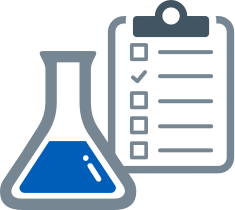
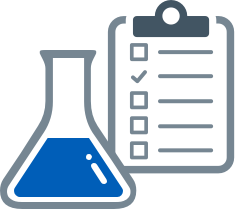
Added SVG format for overview page images

Changed region(s): [[0.0, 0.2286, 0.5957, 1.0], [0.1489, 0.2571, 0.1787, 0.2857]]

diff --git a/views/H/01-overview.html b/views/H/01-overview.html
@@ -53,7 +53,7 @@
           <h2 class="h3">Your individual care</h2>
           <div class="grid-row">
             <div class="column--one-third">
-              <img class="data-usage-icon" src="/images/individual_care_icon.png" height="150" width="auto" />
+              <img class="data-usage-icon" src="/images/individual_care_icon.svg" height="150" width="auto" />
             </div>
             <div class="column--two-thirds">
               <p>Health and care professionals access your data to see your important health and care information. This may include:</p>
@@ -68,7 +68,7 @@
           <h2 class="h3">Research and planning</h2>
           <div class="grid-row">
             <div class="column--one-third">
-              <img class="data-usage-icon" src="/images/research_icon.png" height="150" width="auto" />
+              <img class="data-usage-icon" src="/images/research_icon.svg" height="150" width="auto" />
             </div>
             <div class="column--two-thirds">
               <p>Your data is also used to improve the health of future generations. The NHS uses data to:</p>
